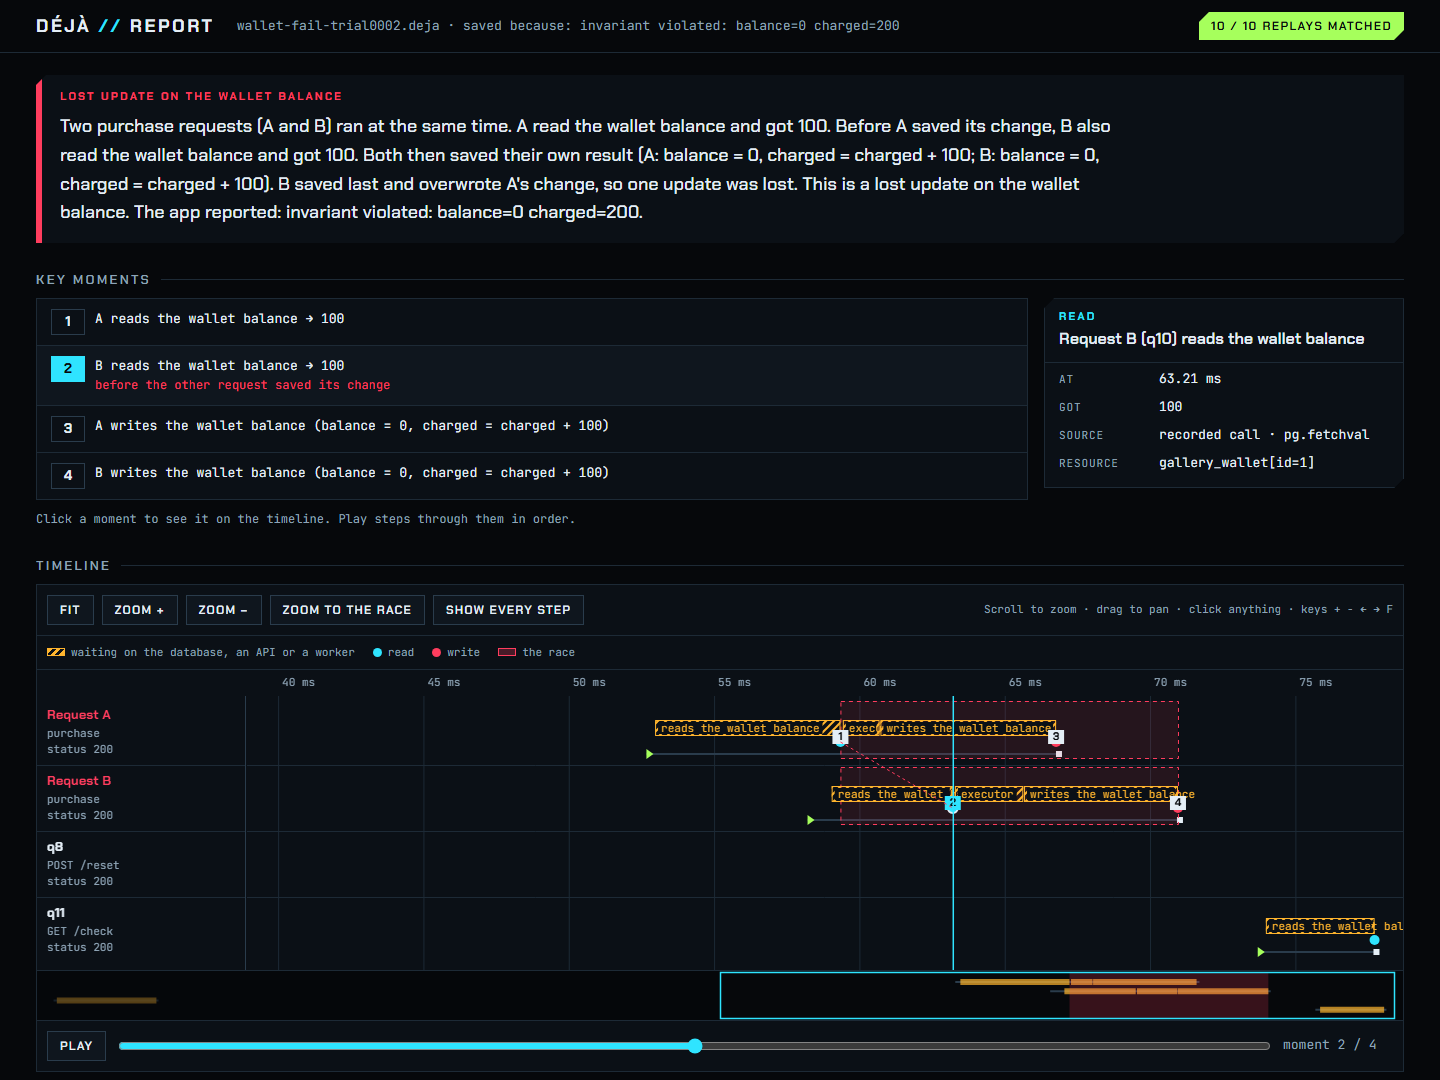
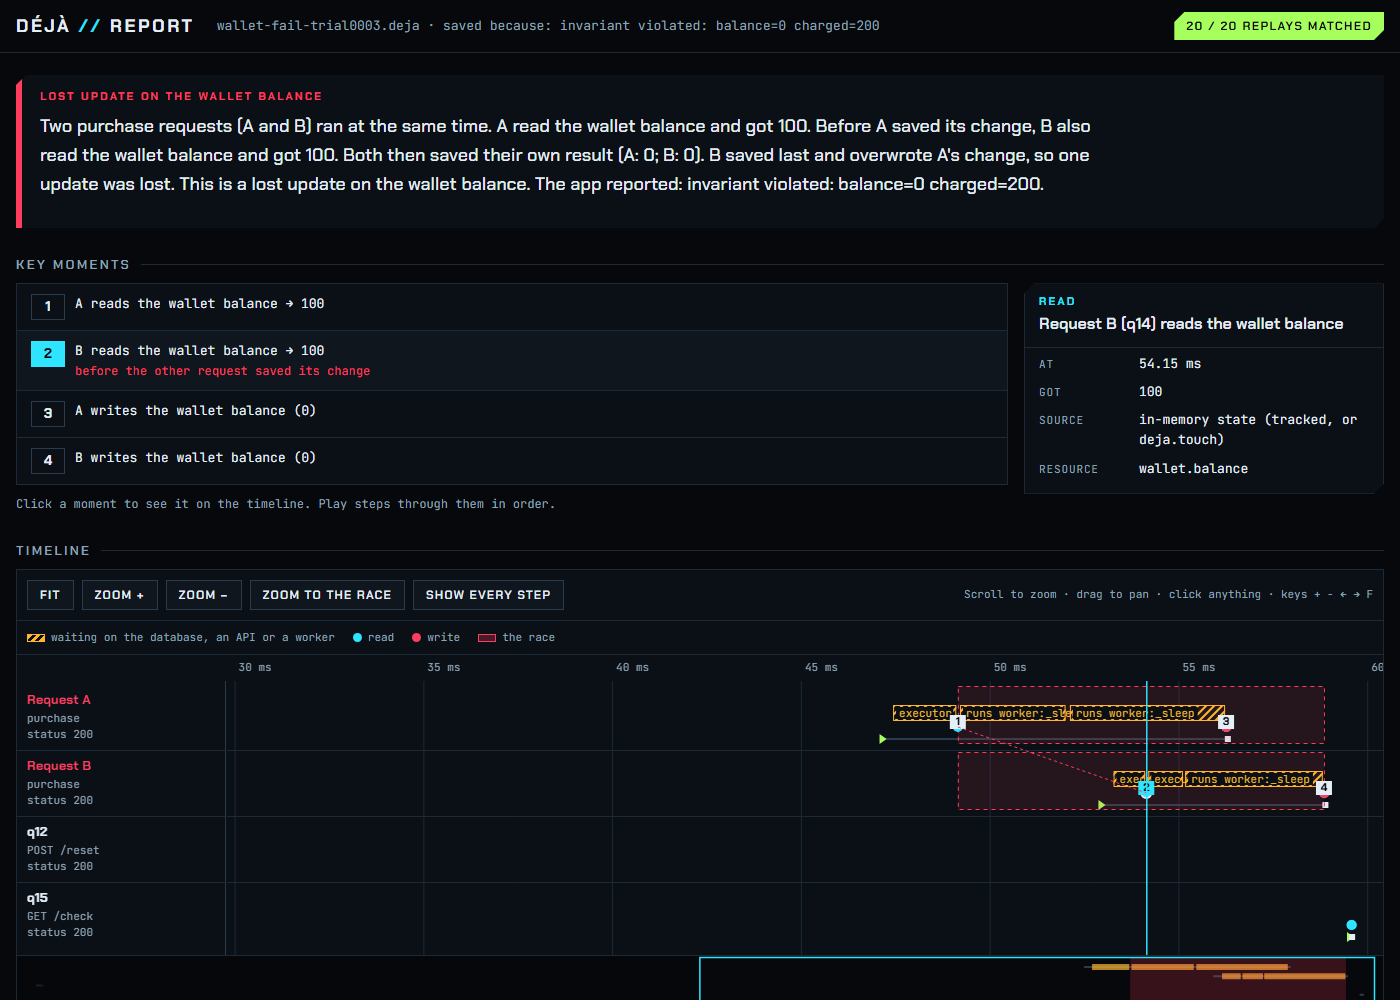
Ready the repository for publishing
- CHANGELOG, CONTRIBUTING, SECURITY (recordings hold production data; untrusted recordings),
  CODE_OF_CONDUCT, issue and pull request templates.
- README: install section, absolute screenshot URL (renders on PyPI), a current screenshot,
  dated results, privacy / contributing / license sections.
- pyproject: project URLs, classifiers, sdist limited to the project (it shipped local virtualenvs:
  34 MB -> 293 KB), ruff config; lint fixes (unused imports, import order); CI lint step.
- .gitignore covers every .venv*, generated reports and the ruff cache.

diff --git a/src/deja/autotrack.py b/src/deja/autotrack.py
@@ -30,10 +30,10 @@ only those. Use it for objects whose class must not be swapped (code that checks
 are saved in the recording and replay applies the same ones.
 """
 
-import abc
 import dis
 import fnmatch
 import gc
+import importlib
 import inspect
 import logging
 import os
@@ -42,10 +42,9 @@ import sysconfig
 import types
 
 from . import annotate
-import importlib
+from .track import COPIES, TRACKED, copy_of, track_object
 
 _track = importlib.import_module("deja.track")  # (`from . import track` is the deja.track function)
-from .track import COPIES, TRACKED, copy_of, track_object
 
 log = logging.getLogger("deja")
 PLAIN = COPIES  # exact types that get a tracked copy
@@ -511,10 +510,10 @@ def prepare(app, track=True, rules=ALL) -> tuple:
     """What the middleware (on the first request) and replay (after startup) do once per app: fingerprint the
     source the routes reach, point clock / random / date names in those modules at the recording wrappers
     (:func:`deja.shims.rebind`), and track shared state. Returns ``(tracked names, source fingerprint)``."""
+    import time
+
     from .shims import rebind
     from .source import fingerprint
-
-    import time
 
     t0 = time.perf_counter()
     try:

diff --git a/tests/test_replay.py b/tests/test_replay.py
@@ -3,8 +3,6 @@ import glob
 import json
 import os
 
-import pytest
-
 from deja import recording_loop
 from deja.replay import Schedule, replay
 from gallery import stress, wallet
@@ -73,7 +71,9 @@ def test_replay_notes_when_the_apps_code_changed(tmp_path):
 
         async def main():
             import asyncio
+
             import httpx
+
             import deja
 
             app = shop_app_v.make_app()
@@ -85,6 +85,7 @@ def test_replay_notes_when_the_apps_code_changed(tmp_path):
                 out["path"] = rec.dump(str(tmp_path / "v.deja"), since=m)
 
         import asyncio
+
         from deja import recording_loop
 
         asyncio.run(main(), loop_factory=recording_loop)

diff --git a/tests/test_psycopg.py b/tests/test_psycopg.py
@@ -9,13 +9,13 @@ from fastapi import FastAPI
 psycopg = pytest.importorskip("psycopg")
 psycopg_pool = pytest.importorskip("psycopg_pool")
 
-from test_adapters import PG_DSN, reachable  # noqa: E402
 import httpx  # noqa: E402
+from test_adapters import PG_DSN, reachable  # noqa: E402
 
 import deja  # noqa: E402
-from deja.loop import RecordingSelectorLoop  # noqa: E402
 from deja.analysis import analyze  # noqa: E402
 from deja.fileformat import read  # noqa: E402
+from deja.loop import RecordingSelectorLoop  # noqa: E402
 from deja.replay import replay  # noqa: E402
 
 pytestmark = pytest.mark.skipif(not reachable("127.0.0.1", int(PG_DSN.rsplit(":", 1)[1].split("/")[0])),

diff --git a/tests/test_workers.py b/tests/test_workers.py
@@ -13,13 +13,14 @@ from fastapi import FastAPI
 
 asyncpg = pytest.importorskip("asyncpg")
 
+from test_adapters import DEAD_PORT_DSN, PG_DSN, reachable  # noqa: E402
+
 import deja  # noqa: E402
 from deja import recording_loop  # noqa: E402
 from deja.analysis import analyze  # noqa: E402
 from deja.fileformat import read  # noqa: E402
 from deja.group import merge  # noqa: E402
 from deja.replay import replay  # noqa: E402
-from test_adapters import DEAD_PORT_DSN, PG_DSN, reachable  # noqa: E402
 
 pytestmark = pytest.mark.skipif(not reachable("127.0.0.1", int(PG_DSN.rsplit(":", 1)[1].split("/")[0])),
                                 reason="test Postgres not running")

diff --git a/tests/test_aiosqlite.py b/tests/test_aiosqlite.py
@@ -10,6 +10,7 @@ from fastapi import FastAPI
 aiosqlite = pytest.importorskip("aiosqlite")
 
 from test_streams import record_concurrently  # noqa: E402
+
 from deja.analysis import analyze  # noqa: E402
 from deja.fileformat import read  # noqa: E402
 from deja.replay import replay  # noqa: E402
@@ -17,8 +18,6 @@ from deja.replay import replay  # noqa: E402
 
 def counter_app(path):
     def factory():
-        state = {}
-
         @contextlib.asynccontextmanager
         async def lifespan(app):
             async with aiosqlite.connect(path) as db:

diff --git a/tests/test_shims_asgi.py b/tests/test_shims_asgi.py
@@ -5,10 +5,10 @@ import time
 import uuid
 
 import httpx
-import pytest
 
 import deja
-from deja import events as ev, fileformat, shims
+from deja import events as ev
+from deja import fileformat, shims
 from deja.loop import recording_loop
 
 
@@ -125,9 +125,9 @@ def test_clock_names_bound_before_recording_and_datetime_replay(tmp_path):
     import os
     import time as _time
 
+    import clock_app
     import httpx
 
-    import clock_app
     from deja.replay import replay
 
     out = {}

diff --git a/src/deja/__init__.py b/src/deja/__init__.py
@@ -16,8 +16,8 @@ __version__ = "0.0.2"
 from .annotate import calls, labels, touch  # noqa: E402
 from .asgi import DejaMiddleware, flag  # noqa: E402
 from .loop import recording_loop  # noqa: E402
-from .scope import scope  # noqa: E402
 from .recorder import Recorder  # noqa: E402
+from .scope import scope  # noqa: E402
 from .track import track  # noqa: E402
 
 __all__ = ["DejaMiddleware", "Recorder", "calls", "flag", "labels", "recording_loop", "scope", "touch", "track",

diff --git a/tests/test_sqlalchemy.py b/tests/test_sqlalchemy.py
@@ -7,14 +7,13 @@ import os
 import httpx
 import pytest
 from fastapi import FastAPI
+from test_adapters import DEAD_PORT_DSN, PG_DSN, reachable
 
 import deja
 from deja import recording_loop
 from deja.analysis import analyze
 from deja.fileformat import read
 from deja.replay import replay
-
-from test_adapters import DEAD_PORT_DSN, PG_DSN, reachable
 
 sa = pytest.importorskip("sqlalchemy")
 from sqlalchemy import Integer, select  # noqa: E402

diff --git a/tests/test_kafka.py b/tests/test_kafka.py
@@ -10,9 +10,9 @@ from fastapi import FastAPI
 
 pytest.importorskip("aiokafka")
 from aiokafka import AIOKafkaConsumer, AIOKafkaProducer  # noqa: E402
-
 from test_adapters import reachable  # noqa: E402
 from test_streams import record_concurrently  # noqa: E402
+
 from deja.replay import replay  # noqa: E402
 
 pytestmark = pytest.mark.skipif(not reachable("127.0.0.1", 59092), reason="test Kafka not running")

diff --git a/tests/test_streams.py b/tests/test_streams.py
@@ -8,13 +8,12 @@ import httpx
 import pytest
 from fastapi import FastAPI
 from fastapi.responses import StreamingResponse
+from test_adapters import DEAD_PORT_DSN, PG_DSN, reachable
 
 import deja
 from deja import recording_loop
 from deja.fileformat import read
 from deja.replay import replay
-
-from test_adapters import DEAD_PORT_DSN, PG_DSN, reachable
 
 
 def record_concurrently(factory, calls, path):

diff --git a/tests/test_mongo.py b/tests/test_mongo.py
@@ -8,9 +8,9 @@ from fastapi import FastAPI
 
 pymongo = pytest.importorskip("pymongo")
 from pymongo import AsyncMongoClient  # noqa: E402
-
 from test_adapters import reachable  # noqa: E402
 from test_streams import record_concurrently  # noqa: E402
+
 from deja.analysis import analyze  # noqa: E402
 from deja.fileformat import read  # noqa: E402
 from deja.replay import replay  # noqa: E402

diff --git a/tests/test_frameworks.py b/tests/test_frameworks.py
@@ -55,7 +55,6 @@ def django_app():
                            MIDDLEWARE=[], INSTALLED_APPS=[])
         django.setup()
     sys.modules.pop("django_shop", None)
-    import django_shop  # a fresh stock for each app, like the factories above
 
     from django.core.asgi import get_asgi_application
     from django.urls import clear_url_caches
